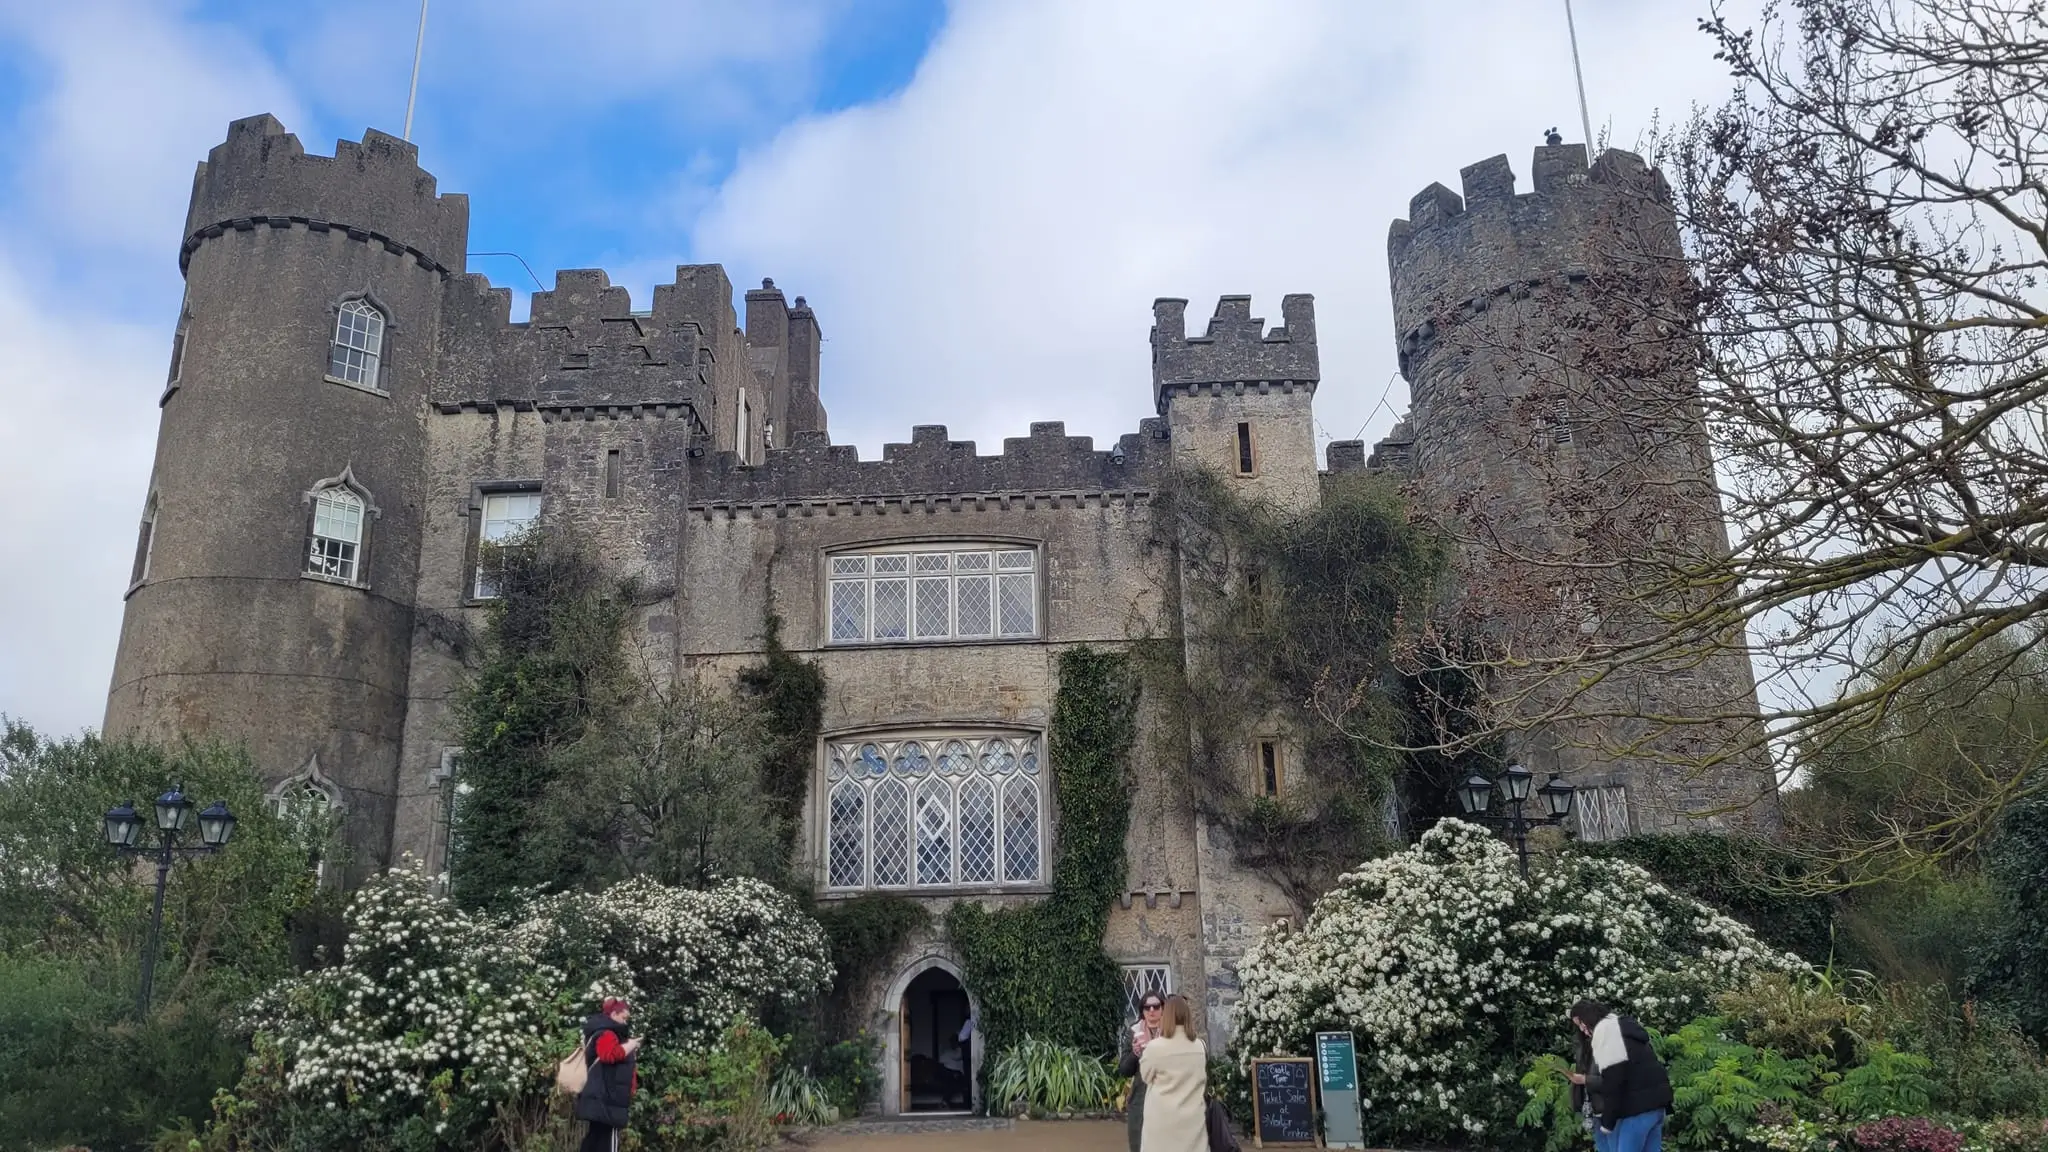
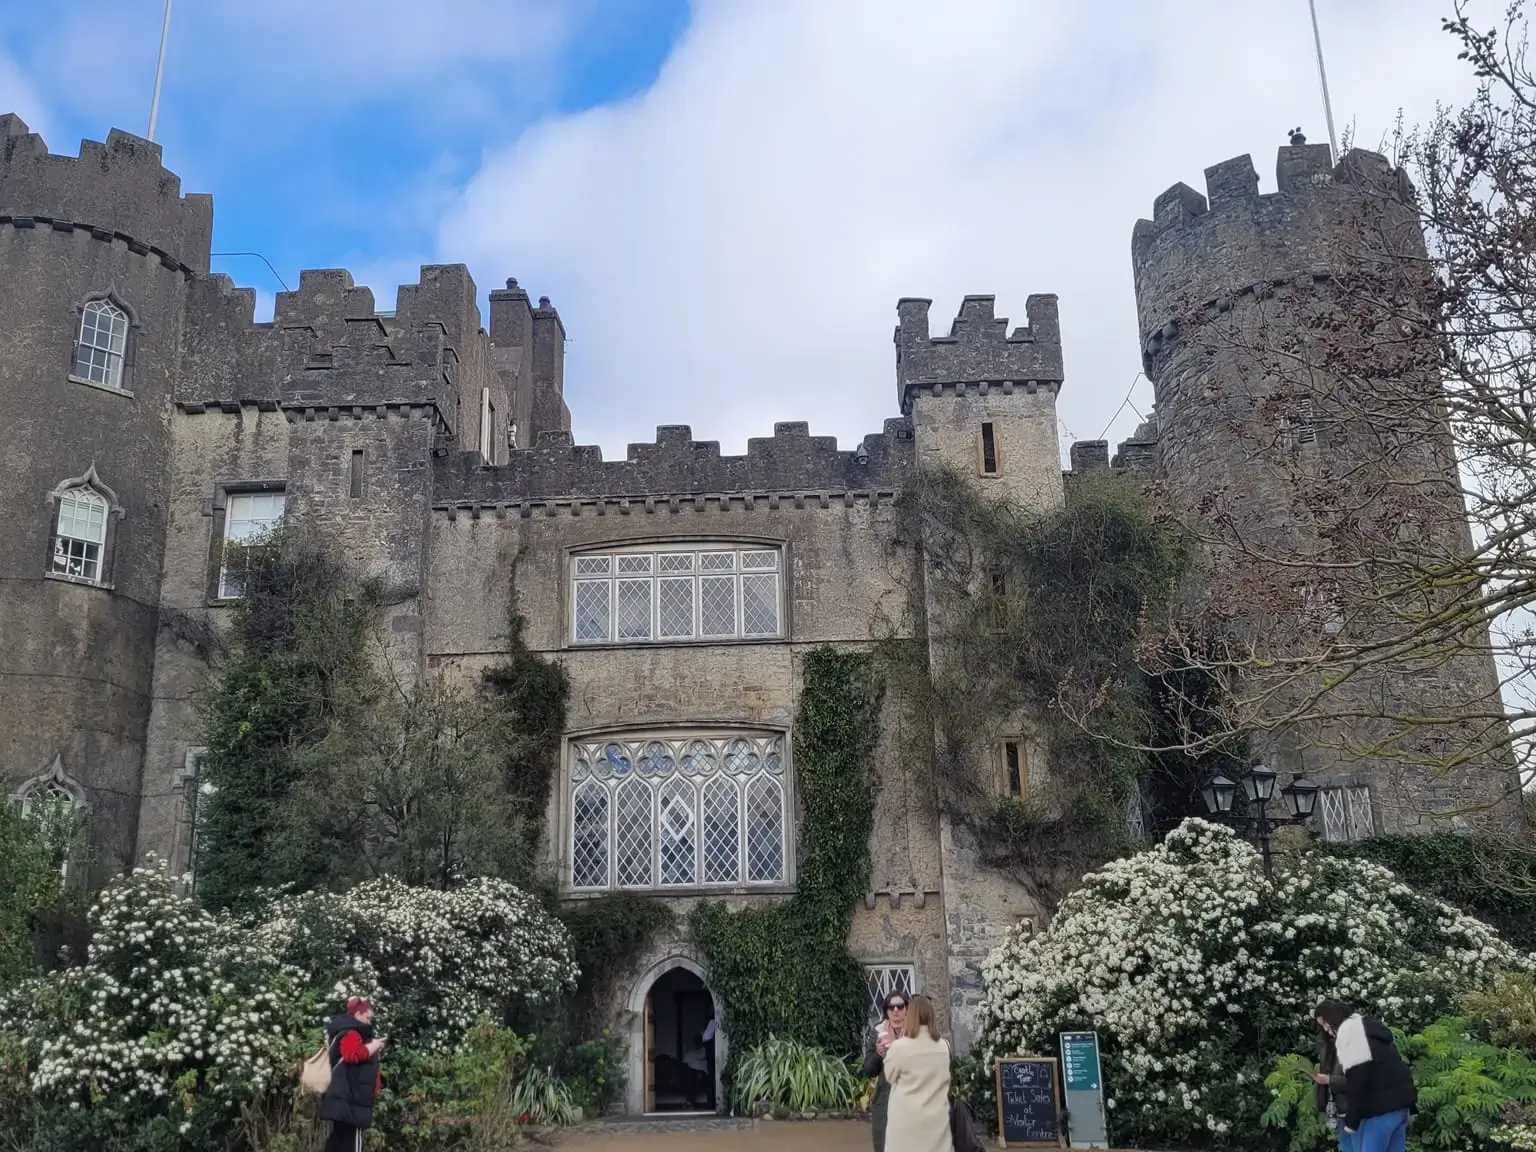
Complete Places where nature speaks

diff --git a/europe.html b/europe.html
@@ -177,8 +177,8 @@
         </div>
         <div class="row">
           <div class="col-12 col-lg-4 mb-3">
-            <div class="card mb-3 h-100 d-flex flex-column">
-              <img src="assets/images/2024-02-11(152).webp" class="card-img-top" alt="View on Church of Saint Peter in golden hour">
+            <div class="card mb-3 h-100 d-flex flex-column venere">
+              <img src="assets/images/2024-02-11(152).webp" class="card-img-top " alt="View on Church of Saint Peter in golden hour">
                 <div class="card-body">
                   <h5 class="card-title mb-3">Church of Saint Peter</h5>
                   <p class="card-text">The churhc of Saint Peter is a spectacular landmark of Porto Venere, sitting on top of rock in Ligurian Sea. Due to its positon the church was a in the past a strategical point of defence, now used for special events such as weddings and other ceremonies.</p>
@@ -186,8 +186,8 @@
               </div>
           </div>
           <div class="col-12 col-lg-4 mb-3">
-            <div class="card mb-3 h-100 d-flex flex-column">
-              <img src="assets/images/2024-02-11(158).webp" class="card-img-top" alt="Doria Castle forthress towers overlooking the sun drenched sea">
+            <div class="card mb-3 h-100 d-flex flex-column venere">
+              <img src="assets/images/2024-02-11(158).webp" class="card-img-top " alt="Doria Castle forthress towers overlooking the sun drenched sea">
                 <div class="card-body">
                   <h5 class="card-title">Doria Castle</h5>
                   <p class="card-text"></p>
@@ -196,8 +196,8 @@
               </div>
           </div>
           <div class="col-12 col-lg-4 mb-3">
-             <div class="card mb-3 h-100 d-flex flex-column">
-              <img src="assets/images/2024-02-11(159).webp" class="card-img-top" alt="San Lorenzo Church on the top of the hill in Porto Venere overlooking blue sea mountains in the background">
+             <div class="card mb-3 h-100 d-flex flex-column venere">
+              <img src="assets/images/2024-02-11(159).webp" class="card-img-top " alt="San Lorenzo Church on the top of the hill in Porto Venere overlooking blue sea mountains in the background">
                 <div class="card-body">
                   <h5 class="card-title">San Lorenzo church</h5>
                   <p class="card-text"></p>
@@ -242,8 +242,8 @@
         </div>
         <div class="row">
           <div class="col-12 col-lg-4 mb-3">
-            <div class="card mb-3 h-100 d-flex flex-column">
-              <img src="assets/images/20191015_162504.webp" class="card-img-top h-100" alt="View on Alhambre from flowery garden with beautiful mountain range in the background">
+            <div class="card mb-3 h-100 d-flex flex-column granada">
+              <img src="assets/images/20191015_162504.PNG" class="card-img-top" alt="View on Alhambre from flowery garden with beautiful mountain range in the background">
                 <div class="card-body">
                   <h5 class="card-title mb-3">Alhambra</h5>
                   <p class="card-text">Alhambra - Red castle is one of the most visited landmarks in Spain built in 13th century, featuring beautiful gardens view points and key structures such as Nasrid Palaces, Alcazaba fortress and the Palace of Charles V. it is symbol of cultural blending happening during islamic Golden Age. Alhambra is a place worth to visit and way how to spend a whole day in Granada due its enourmous size.</p>
@@ -251,8 +251,8 @@
               </div>
           </div>
             <div class="col-12 col-lg-4 mb-3">
-              <div class="card mb-3 h-100 d-flex flex-column">
-                <img src="assets/images/2024-02-11(6).webp" class="card-img-top p-6" alt="Generalife moorish style palace with artistically trimmed shrub in shape of cube surrounded by fountain streams and forming a frame to the cube shaped shrub">
+              <div class="card mb-3 h-100 d-flex flex-column granada">
+                <img src="assets/images/2024-02-11(6) copy.JPG" class="card-img-top" alt="Generalife moorish style palace with artistically trimmed shrub in shape of cube surrounded by fountain streams and forming a frame to the cube shaped shrub">
                 <div class="card-body">
                   <h5 class="card-title">Generalife Gardens</h5>
                   <p class="card-text">The Generalife Gardens in Granada are a peaceful escape, once the summer retreat of Moorish kings. With shaded paths, flowing fountains, and vibrant flowers, they offer a calm contrast to the grand Alhambra. From the terraces, you’ll enjoy unforgettable views of the city and the Sierra Nevada mountains.</p>
@@ -260,8 +260,8 @@
               </div>
             </div>
             <div class="col-12 col-lg-4 mb-3">
-              <div class="card mb-3 h-100 d-flex flex-column">
-                <img src="assets/images/sergio-rota-BObeW7-d6fk-unsplash.jpg" class="card-img-top" 
+              <div class="card mb-3 h-100 d-flex flex-column granada">
+                <img src="assets/images/sergio-rota-BObeW7-d6fk-unsplash.jpg" class="card-img-top " 
                 alt="front of Renaissance style Granada Cathedral">
                 <div class="card-body">
                   <h5 class="card-title">Granada Cathedral</h5>
@@ -306,7 +306,7 @@
         </div>
         <div class="row">
           <div class="col-12 col-lg-4 mb-3">
-            <div class="card mb-3 h-100 d-flex flex-column">
+            <div class="card mb-3 h-100 d-flex flex-column dublin">
               <img src="assets/images/2024-02-11(21)-temple-bar.jpg" class="card-img-top" alt="Red colored front entrance of Temple Bar">
                 <div class="card-body">
                   <h5 class="card-title mb-3">Temple Bar</h5>
@@ -315,8 +315,8 @@
               </div>
           </div>
             <div class="col-12 col-lg-4 mb-3">
-              <div class="card mb-3 h-100 d-flex flex-column">
-                <img src="assets/images/malahide-castle-dublin.webp" class="card-img-top h-100" style="height: 265px" alt="front entrance of Malahide castle surrounded but blooming trees antique petroleum lamps and few visitors in front of the entrance">
+              <div class="card mb-3 h-100 d-flex flex-column dublin">
+                <img src="assets/images/malahide-castle-dublin.webp" class="card-img-top"  alt="front entrance of Malahide castle surrounded but blooming trees antique petroleum lamps and few visitors in front of the entrance">
                 <div class="card-body">
                   <h5 class="card-title">Malahide Castle and Gardens</h5>
                   <p class="card-text">Just 25 minutes from Dublin city center, the majestic Malahide Castle is a gem with over 800 years of history. Easily reached by buses 32 or 42, or even directly from Dublin Airport, the castle takes you on a journey through centuries of Irish heritage. After exploring its halls, step outside into the botanic gardens, where colorful flowerbeds, a tranquil pond, and Ireland’s only butterfly house await. Whether you stay for a half-day or make it a full day out, Malahide Castle and Gardens offers the perfect escape from Dublin’s busy streets.</p>
@@ -324,7 +324,7 @@
               </div>
             </div>
             <div class="col-12 col-lg-4 mb-3">
-              <div class="card mb-3 h-100 d-flex flex-column">
+              <div class="card mb-3 h-100 d-flex flex-column dublin">
                 <img src="assets/images/2024-02-11(303)-Copy.webp" class="card-img-top"
                 alt="View on the Christ Church cathedral framed by trees on each site">
                 <div class="card-body">
@@ -404,8 +404,26 @@
         </div>
         <div class="row">
           <div class="col-12 pt-3">
-            <p>Coimbra Botanical Garden at the University of Coimbra, founded in 1772 for the study of natural history, is one of the best places to admire plants from all over the world. The garden is adorned with statues and divided into two main levels: the classical garden, with its terraces and alleys, and the arboretum, where a shade house shelters diverse plant species. A wall cascade and stream flow through the site, adding to its charm. Within the arboretum, you’ll also find a serene bamboo forest and the Chapel of St. Benedict. Together, these features make the Botanical Garden a perfect escape for nature lovers seeking tranquility in the heart of Coimbra.</p>
+            <p>Coimbra Botanical Garden at the University of Coimbra, founded in 1772 for the study of natural history, is one of the best places to admire plants from all over the world. The garden is adorned with statues and divided into two main levels: the classical symmetrical garden, with its terraces, alleys, perfectly made shrubs, and the arboretum, where a shade house shelters diverse plant species. A wall cascade and stream flow through the site, adding to its charm. Within the arboretum, you’ll also find a serene bamboo forest, the Chapel of St. Benedict and what not to be missed the water features and lake for the perfect photo taking. Together, these features make the Botanical Garden a perfect escape for nature lovers seeking tranquility in the heart of Coimbra. </p>
           </div>
+        </div>
+        <div class="row">
+          <h4>Jerbourg</h4>
+          <div class="col-12 col-lg-6">
+            <div class="rounded flex-fill overflow-hidden">
+              <img src="assets/images/2024-02-11.jpg" class="img-fluid w-100 h-100 object-fit-cover" alt="rugged cliffs of Jerbourg coast and turquouise sea" loading="lazy" style="max-height: 330px;">
+            </div>
+          </div>
+          <div class="col-12 col-lg-6 d-flex flex-column column mt-3 mt-lg-0">
+            <p><strong>Location:</strong>The Channel Islands</p>
+            <p><strong>Region:</strong>Jerbourg Peninsula Guernsey</p>
+            <p><strong>How to get there:</strong></p>
+            <p><strong>By sea</strong> take a ferry to Guernsey or sail</p>
+            <p><strong>By flight:</strong> Gurnsey airport from UK and European cities</p>
+          </div>      
+        </div>
+        <div class="row">
+          <div class="col-12 pt-3">Jerbourg is located in parish St Martin in Guernsey and offering a beautiful cliff walk and stunning views over the islands and French coast as well as bird watching spots and number of landmarks such as Doyle column and World War Two bunkers. Guenrnsey itself offering a number of beautiful beaches such as Rocquaine Bay or Cobo Bay - one of the most popular beach of Guernsey and spots for wild swimming such as horse shoe beach of Port Soif. From Guenrnsey is also a great access to the rest of the Channel Island via local ferry such as Herm Island with popular Shell beach or the smallest of islands Sark Island surrounded by beautiful green hills</div>
         </div>
       </div>
 

diff --git a/assets/css/style.css b/assets/css/style.css
@@ -130,7 +130,7 @@ article {
 
 .card-title {
   font-weight: 700;
-  font-size: 1.8rem;
+  font-size: 1.5rem;
 }
 
 #directories .card img {
@@ -150,6 +150,12 @@ article {
 /* destinations cards */
 .card {
   box-shadow: 6px 6px 6px rgba(76, 73, 73, 0.5);
+}
+
+.venere .card-img-top,
+.granada .card-img-top,
+.dublin .card {
+  height:250px;
 }
 /* buttons */
 .custom-button-outline {
